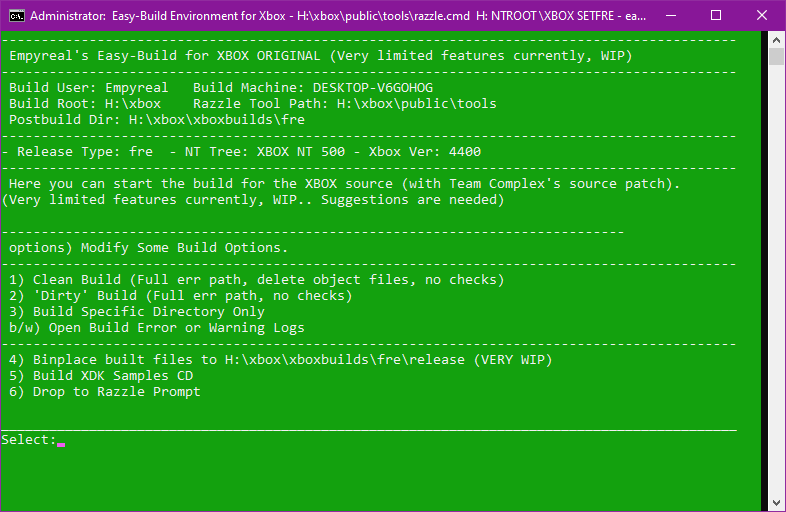
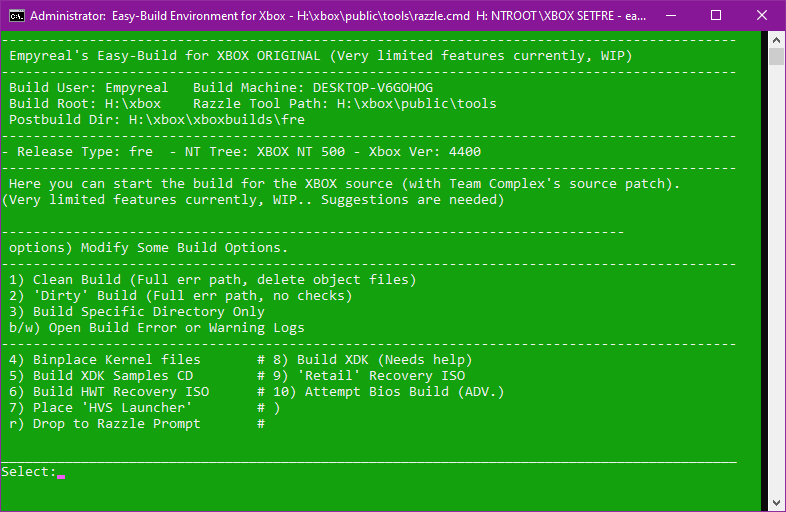
Small but VERY In-testing features/build options
- Linked in-testing SDK Build script to the menu. (Advanced users)
- Added *VERY* in-testing of building bios rom (Advanced users, has issues described in the Easy-Build main menu)
- Added checks to see if CPXXUPD has already been applied on making new profile
- Added note on Easy-Build-xinit.cmd menu about loading CHK builds

diff --git a/README.md b/README.md
@@ -36,13 +36,17 @@ You will need access to the Xbox trunk and Team Complex's patch.
 *Any issues or suggestions please open an issue ticket so I can look into it*
 
 **What's Updated?**
+- Linked in-testing SDK Build script to the menu. (Advanced users, see *XDK Building* below)
+- Added *VERY* in-testing of building bios rom (Advanced users, has issues described in the Easy-Build main menu)
+- Added checks to see if CPXXUPD has already been applied on making new profile
+- Added note on Easy-Build-xinit.cmd menu about loading CHK builds
+
+**Previous Updates**
+
 - Build chk is now supported
 - Postbuild scripts now have 'basic' logs in the %_NT386TREE% folder
 - Added copying 'HVS Launcher Test' files (not sure what this is)
 - Added two more buildable directories in "private\sdktools\factory"
-
-**Previous Updates**
-
 - Added 'xmakesamples.cmd' which builds the XDK Sample CD.
 - Added a WIP script to set off the XDK build *see XDK below*
 - Fixed %_BUILDVER% not being set on razzle-easybuild handover
